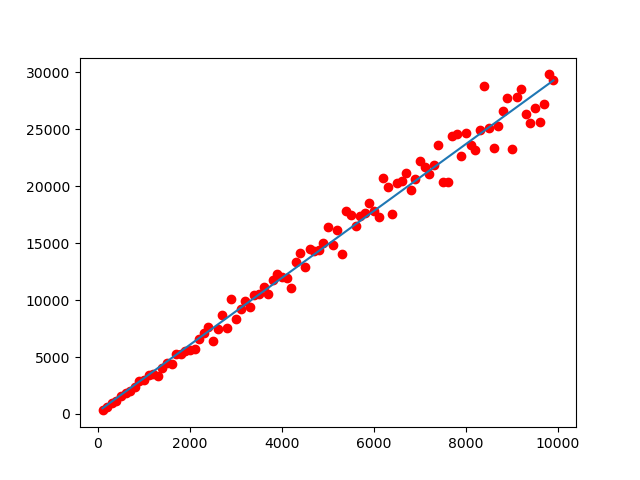
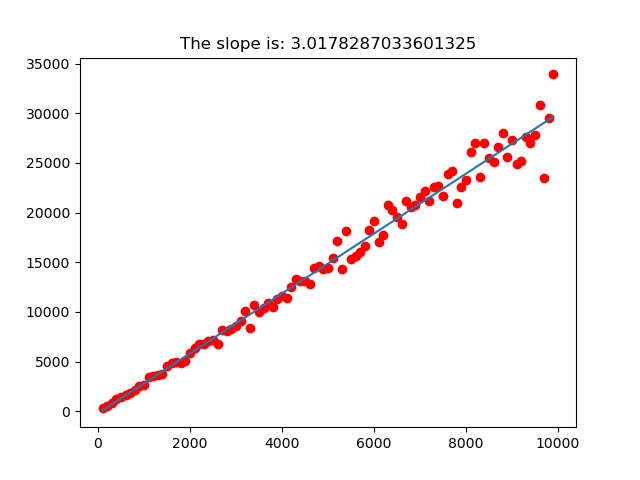
this is the shit

diff --git a/HW6/divide_conquer.py b/HW6/divide_conquer.py
@@ -189,6 +189,7 @@ def run_codes_analysis():
     BestFit = polyval(c, X_data)
     plt.plot(X_data, Y_data, "ro")
     plt.plot(X_data, BestFit)
+    plt.title(f"The slope is: {c[0]}")
     plt.savefig("HW6Q5")
     print(f"Polyval results Show that the constant factor is: {c[0]}")
 
